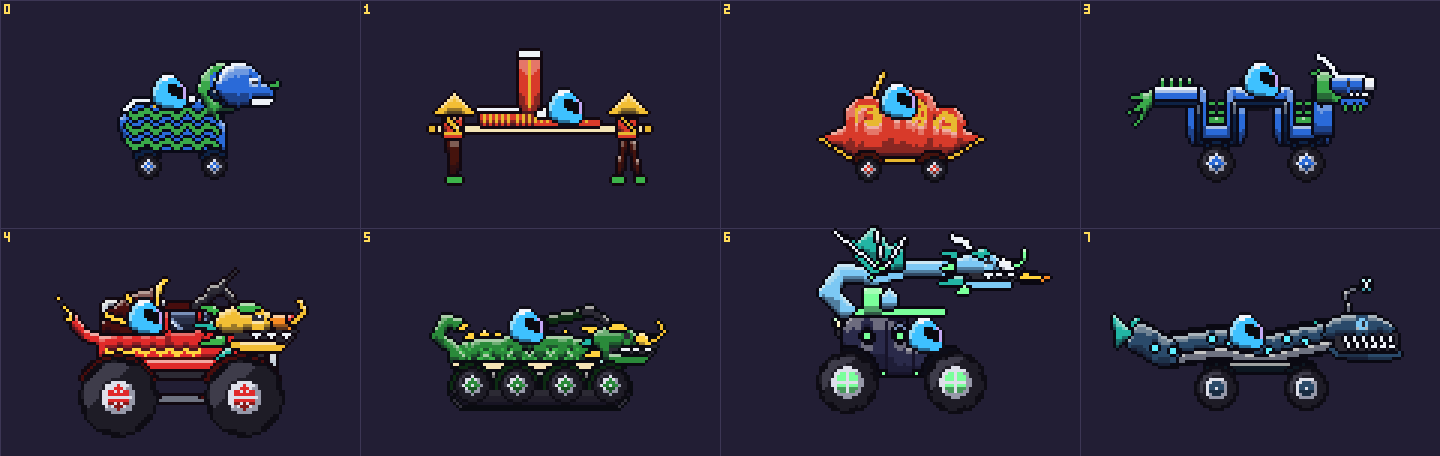
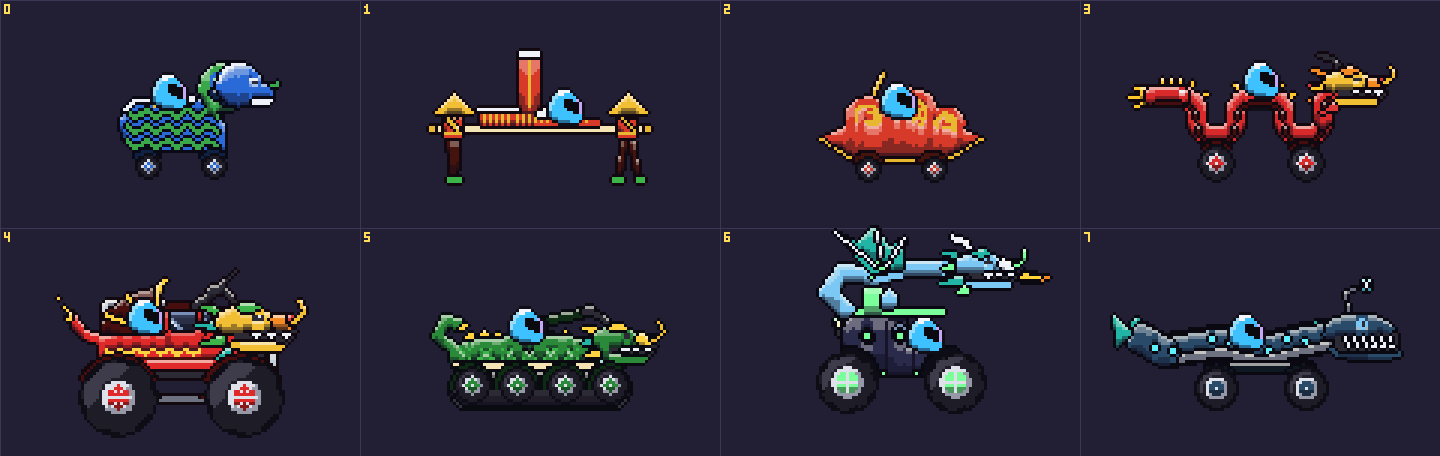
Chinese Dragon: round red body and the Dragon Monster head
Claude-Session: https://claude.ai/code/session_017ydipoiQbyKNiFaYnwpBfG

Changed region(s): [[0.7812, 0.1228, 0.9688, 0.3377]]

diff --git a/src/cars/roster/cny.ts b/src/cars/roster/cny.ts
@@ -1,4 +1,4 @@
-import { arc, blob, circ, ell, eyeball, fangs, path, poly, rect, rr, seg, spikesAlong, stripe } from '../draw';
+import { arc, blob, circ, ell, eyeball, path, poly, rect, rr, seg, smooth, spikesAlong, stripe } from '../draw';
 import { rocket, tracks, monsterTruck } from '../skins';
 import type { CarPoly } from '../types';
 import { dims, dragonHead, quadruped, saddle } from '../critters';
@@ -96,47 +96,46 @@ export const CNY = group('cny', [
       ];
     },
   }],
-  ['chinese-dragon', 'Chinese Dragon', 'Довгий східний дракон із вусами. Дихає полум\'ям.', 'creature', ['#2a6ad8', '#3aa84a'], {
+  ['chinese-dragon', 'Chinese Dragon', 'Довгий східний дракон із вусами. Дихає полум\'ям.', 'creature', ['#d82a2a', '#ffc828'], {
     o: o({ neck: 'raptor', len: 1.3, wheel: 0.8 }), parts: ['plates', 'tail', 'mohawk'], noLights: true, hideParts: true,
     // the fire leaves the open jaws
-    gun: () => ({ at: [[2.1, -0.78]], aim: 4 }),
+    gun: () => ({ at: [[2.3, -0.82]], aim: 4 }),
     // the player rides high on the hump between the loops
     head: () => [0.0, -1.12],
-    // After Drive Ahead's New Year dragon: a thick body bent into a square wave, each loop standing
-    // on a wheel and the player riding the hump between them; a white shine along the top, green
-    // bristles along the edges, a finned tail, and a blocky head with a white horn and a green mane.
+    // After Drive Ahead's New Year dragon: a thick red body rolling in round waves, each loop
+    // standing on a wheel and the player riding the hump between them; a shine along the top,
+    // gold bristles along the edges, a finned tail, and the temple-dragon head in red and gold.
     skin: (f) => {
       const { rear, front } = dims(f);
-      const top = -0.78, bot = -0.04, T = 0.34, w = 0.34;
-      const pts: [number, number][] = [[-1.95, top], [rear - w, top], [rear - w, bot], [rear + w, bot], [rear + w, top], [front - w, top], [front - w, bot], [front + w, bot], [front + w, top], [1.3, -0.8]];
-      // bristles: green ticks along the outside of every run
-      const ticks: CarPoly[] = [];
+      const top = -0.78, bot = -0.04, T = 0.36, w = 0.36;
+      const pts = smooth([[-1.95, top], [rear - w, top], [rear - w, bot], [rear + w, bot], [rear + w, top], [front - w, top], [front - w, bot], [front + w, bot], [front + w, top], [1.3, -0.82]], 3, false) as [number, number][];
+      // bristles: gold ticks standing up along the tops of the humps, and a shine there
+      const ticks: CarPoly[] = [], shine: CarPoly[] = [];
+      let acc = 0;
       for (let i = 0; i + 1 < pts.length; i++) {
-        const [ax, ay] = pts[i], [bx, by] = pts[i + 1], l = Math.hypot(bx - ax, by - ay), n = Math.floor(l / 0.14);
+        const [ax, ay] = pts[i], [bx, by] = pts[i + 1], l = Math.hypot(bx - ax, by - ay);
+        if (!l) continue;
         const nx = (by - ay) / l, ny = -(bx - ax) / l;
-        for (let k = 1; k < n; k++) {
-          const x = ax + ((bx - ax) * k) / n, y = ay + ((by - ay) * k) / n;
-          ticks.push(seg([x + nx * T * 0.4, y + ny * T * 0.4], [x + nx * T * 0.95, y + ny * T * 0.95], 0.07, 'accent'));
+        if (Math.abs(by - ay) < Math.abs(bx - ax) * 0.4 && ny < 0 && ay < top + 0.15) shine.push(seg([ax + nx * T * 0.3, ay + ny * T * 0.3], [bx + nx * T * 0.3, by + ny * T * 0.3], 0.05, 'white', { flat: true }));
+        acc += l;
+        while (acc >= 0.15) {
+          acc -= 0.15;
+          const t = 1 - acc / l, x = ax + (bx - ax) * t, y = ay + (by - ay) * t;
+          if (ny < -0.5 && y < top + 0.15) ticks.push(seg([x + nx * T * 0.4, y + ny * T * 0.4], [x + nx * T * 0.9, y + ny * T * 0.9], 0.07, 'accent'));
         }
       }
       return [
         ...ticks,
         // the finned tail
-        ...[[-2.4, -0.75], [-2.45, -0.45], [-2.35, -0.2]].map(([x, y]) => poly([[-1.9, top - 0.12], [-1.9, top + 0.12], [x, y]], 'accent')),
-        // the body: a thick blue tube with a white shine on top and a dark green underside
+        ...[[-2.4, -0.95], [-2.45, -0.75], [-2.35, -0.55]].map(([x, y]) => poly([[-1.9, top - 0.12], [-1.9, top + 0.12], [x, y]], 'accent')),
+        // the body: a thick red tube rolling in waves, a dark underside, the shine on top
         ...path(pts, T, 'body'),
         ...path(pts.map(([x, y]) => [x, y + T * 0.36] as [number, number]), 0.05, 'dark'),
-        ...[[-1.95, rear - w], [rear + w, front - w], [front + w, 1.2]].map(([a, b]) => rect(a, top - T / 2 + 0.03, b, top - T / 2 + 0.08, 'white', { flat: true })),
+        ...shine,
         // the feet: white claws over the wheels
         ...[rear, front].flatMap((x) => [-0.2, 0.0, 0.2].map((d) => poly([[x + d - 0.06, bot + T / 2 - 0.02], [x + d + 0.06, bot + T / 2 - 0.02], [x + d, bot + T / 2 + 0.1]], 'white'))),
-        // the head: green mane, a white horn sweeping back, a blocky blue skull, open jaws
-        rr(1.05, -1.22, 1.55, -0.66, 0.1, 'accent'), ...[[0.95, -1.2], [0.9, -0.95], [0.95, -0.72]].map(([x, y]) => poly([[1.1, y - 0.06], [1.1, y + 0.06], [x, y]], 'accent')),
-        ...path([[1.45, -1.14], [1.25, -1.39], [1.05, -1.54]], 0.08, 'white'),
-        rr(1.35, -1.16, 2.05, -0.84, 0.08, 'body'), rect(1.4, -1.14, 1.95, -1.1, 'white', { flat: true }),
-        rr(1.95, -1.1, 2.12, -0.9, 0.04, 'white'),
-        ell(1.62, -1.0, 0.06, 0.035, 'black', { flat: true }), rect(1.52, -1.08, 1.72, -1.05, 'accent', { flat: true }),
-        rect(1.5, -0.84, 2.06, -0.7, 'black', { flat: true }), ...fangs(1.62, 2.02, -0.84, 3, 0.08),
-        rr(1.48, -0.71, 1.98, -0.6, 0.04, 'body'), ...[1.55, 1.7, 1.85].map((x) => rect(x, -0.6, x + 0.06, -0.52, 'accent')),
+        // the head, as on Dragon Monster: a gold skull, its mane in orange and red to suit the body
+        ...dragonHead(1.25, -0.86, 0.95, { mane: ['orange', 'red'], spikes: 'accent', maneLen: 0.45 }),
         ...saddle(f.head.x, f.head.y + 0.22, 'accent'),
       ];
     },

diff --git a/docs/redesign/README.md b/docs/redesign/README.md
@@ -319,7 +319,7 @@
 - **Шолом** повернуто на 20% ближче до попереднього: візор лише трохи нахмурений, підборіддя не таке гостре.
 - **Голова дракона (`dragonHead`)** простіша: чотири пасма гриви, без бороди, менша паща з трьома зубами, короткий вус. Замість круглого витріщеного ока тепер спокійне мигдалеподібне.
 - **Новорічні авто перемальовано з нуля за референсом Drive Ahead** (композиція й силуети звідти, малюнок наш):
-  - **Chinese Dragon:** синій, тіло прямокутною хвилею, кожна петля стоїть на колесі, водій високо на горбі між ними. Зелені щетинки, білий відблиск, блочна голова з білим рогом.
+  - **Chinese Dragon:** червоний, тіло плавною хвилею, кожна петля стоїть на колесі, водій високо на горбі між ними. Золоті щетинки й відблиск на горбах, голова та сама, що в Dragon Monster (золотий череп, грива в помаранчевих і червоних тонах).
   - **Dancing Lion:** широке тіло з трьома рядами зигзагів, голова як у собаки (морда з білою губою, зелений чубчик на носі, спокійне око).
   - **Cloud:** загострені кінці, три пелюстки зі спіралями, паличка за водієм.
   - **The Emperor's Carriage:** жердина, смугаста платформа, трон із високою спинкою, носії під великими брилями.
